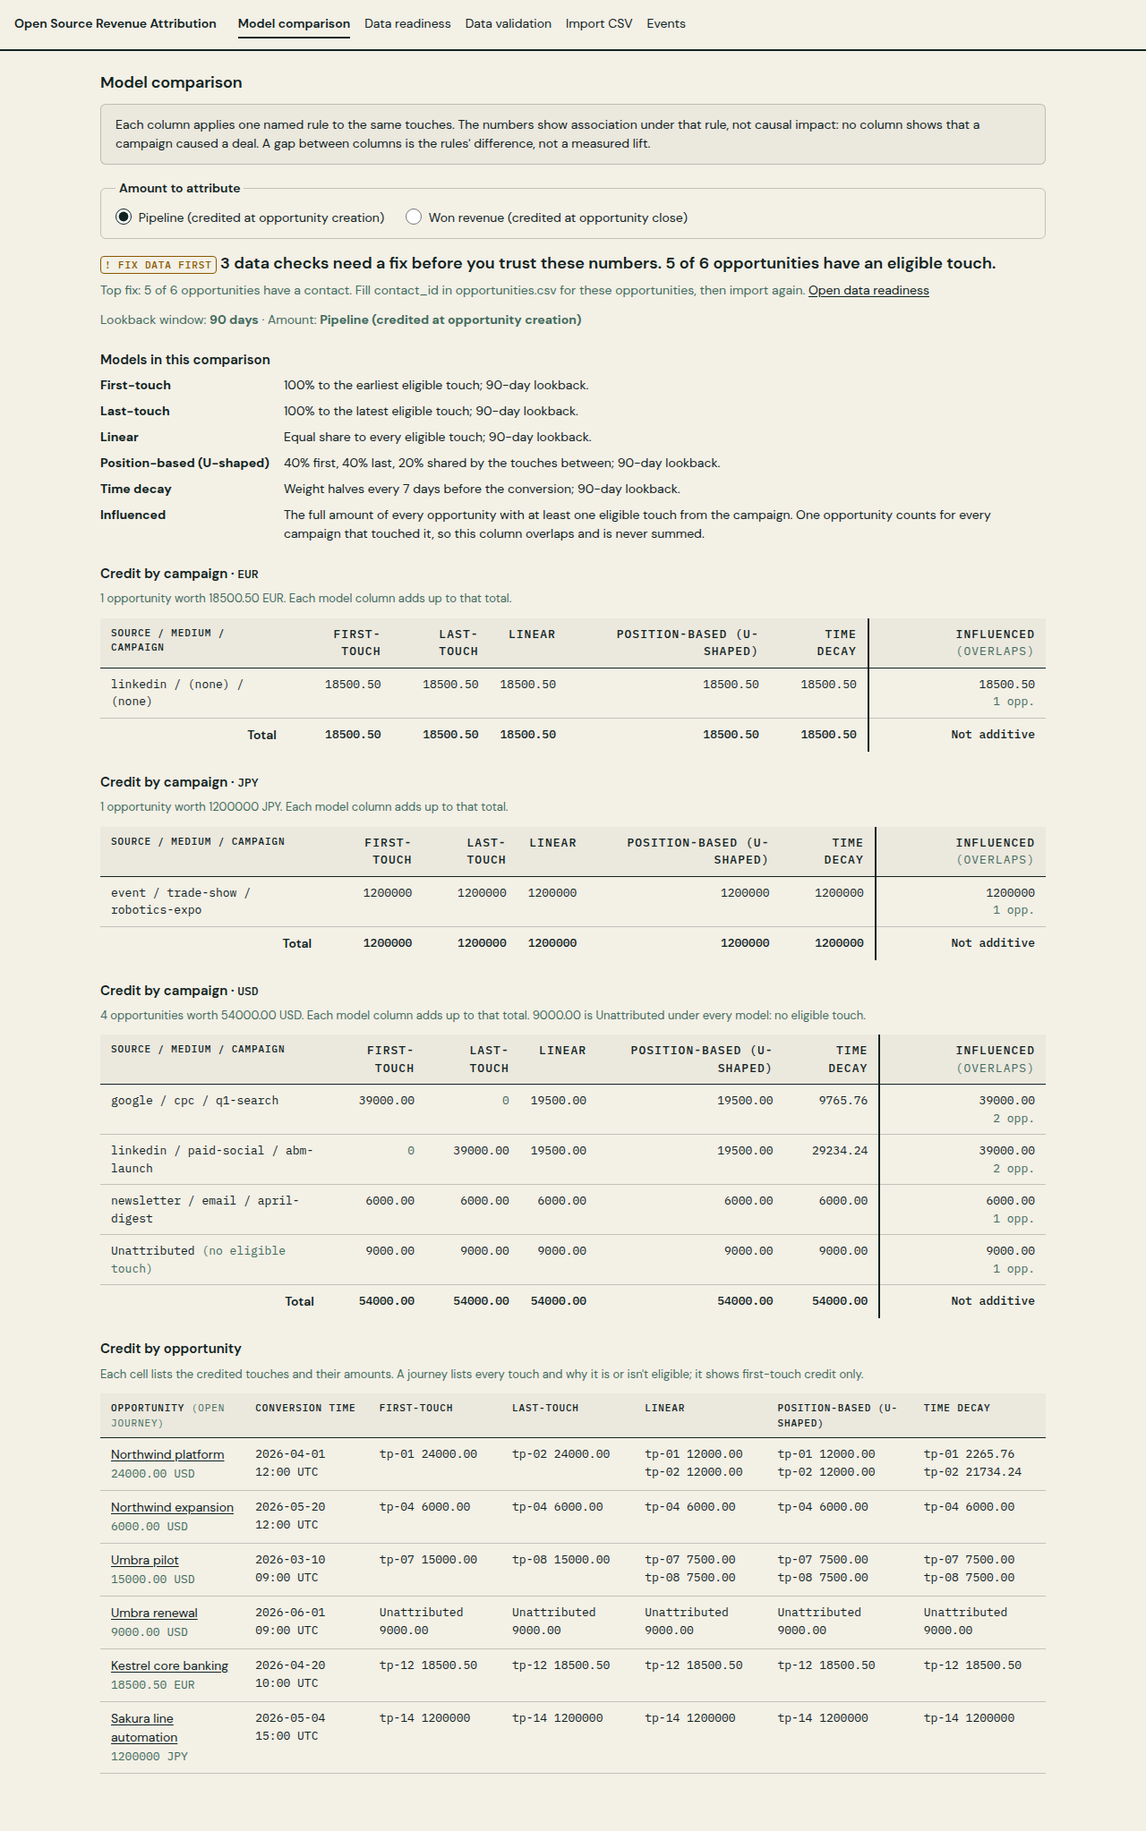
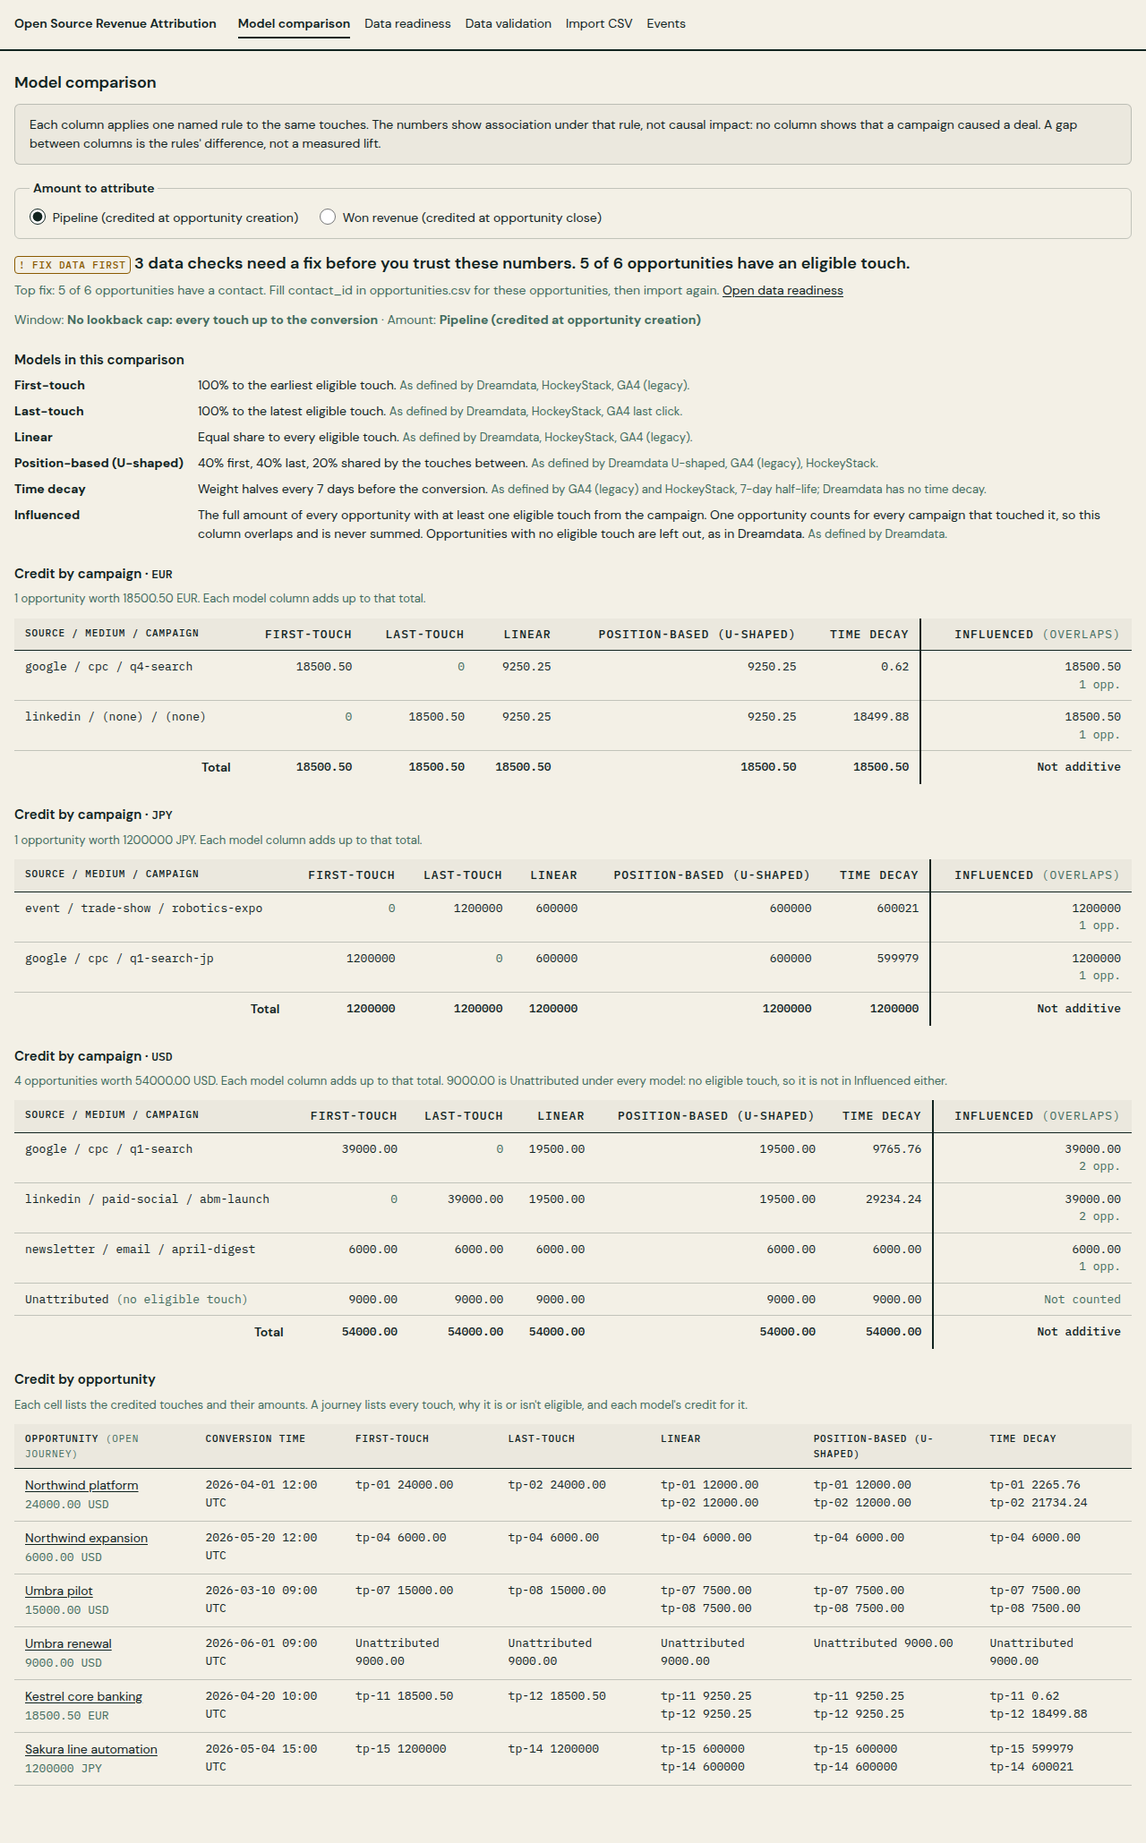
docs: record M4 decisions, PRD scope update, planned lead_created_at

diff --git a/docs/decisions.md b/docs/decisions.md
@@ -2,51 +2,53 @@
 
 Product and data-meaning decisions, newest first. Each links the issue where it was made.
 
-## 2026-10-29 — M4 models, influence and readiness (proposed, needs Christopher)
+## 2026-10-29 — M4 models, lookback, influence and readiness
 
-Proposed on branch `claude/m4-models`, not yet reviewed. Research and sources:
-[docs/research/m4-models.md](research/m4-models.md).
+Decided by Claude (the coordinating session), under Christopher's standing rule for this
+project: adopt the industry standard, or argue for a deviation from the docs. Research and
+sources: [docs/research/m4-models.md](research/m4-models.md). Branch `claude/m4-models`.
 
-**Adopted from the standard:**
-- **Models:** first-touch, last-touch and linear as Dreamdata defines them. Position-based
-  (U-shaped) is 40/20/40, as in Dreamdata, GA4 (legacy) and HockeyStack. Time decay has a
-  7-day half-life measured back from the conversion, as in GA4 (legacy) and HockeyStack.
-- **Influenced:** a campaign counts the full amount of every opportunity it touched, so
-  totals overlap (Dreamdata's definition). It is never totalled in the UI.
-- **Direct and `(none)` touches** get credit like any other, as in Dreamdata. GA4 excludes
-  direct; we don't.
-- **Rounding:** every model splits at the currency's minor unit. Leftover minor units go to
-  the largest remainders, ties to the earlier touch (PRD section 6: deterministic,
-  reconciling).
+1. **No lookback cap by default (matches Dreamdata).** Dreamdata counts "from the first
+   interaction up to the stage you selected". A day-based window is now an optional model
+   parameter (`ATTRIBUTION_LOOKBACK_DAYS`, for example 90, GA4's default). Every page names
+   the window in use. This replaces the PRD's 90-day demo default.
+   **Numbers that moved on the demo** (hand-derived in `sample_data/demo/README.md`):
+   - Pipeline first-touch: opp-105 moves to tp-11 (google / cpc / q4-search) and opp-106 to
+     tp-15 (google / cpc / q1-search-jp).
+   - Won first-touch: opp-101 moves to tp-01 (q1-search) and opp-105 to tp-11.
+   - Every multi-touch model for opp-105 (both metrics), opp-106 pipeline and opp-101 won.
+   - Two fewer `TOUCHPOINT_OUTSIDE_LOOKBACK` warnings (tp-11, tp-15) on the live import.
+   - The 90-day results stay in each expected file under `lookback_90`.
+2. **W-shaped deferred.** Its third anchor is "the touch containing the conversion", which
+   needs a lead milestone. `lead_created_at` is listed in the contract as planned, not
+   implemented.
+3. **Time decay kept.** Its 7-day half-life is measured back from the conversion, per GA4
+   (legacy) and HockeyStack. The UI labels those sources and says that Dreamdata has no
+   time-decay model. Weights are normalised so credits reconcile.
+4. **Position-based with one or two touches: 100%, or 50/50.** No vendor documents these
+   cases (checked Dreamdata, GA4, HockeyStack and HubSpot). They are the only splits that
+   keep the total and treat first and last alike.
+5. **Influenced matches Dreamdata.** A campaign counts the full amount of every opportunity it
+   touched, so totals overlap and are never summed. Opportunities with no eligible touch are
+   left out ("attributable deals" only). The readiness page lists them instead.
+6. **PRD updated.** Position-based is in scope for M4 (PRD section 9, dated note).
+7. **Journeys show every model's credit per touch**, not first-touch only.
 
-**Deviations, each needing a `Decision:`:**
-1. **Lookback stays 90 days.** Dreamdata has no fixed window: it counts from the first
-   interaction up to the stage date. GA4 defaults to 90 days. Long journeys will show less
-   credit (more Unattributed) here than in Dreamdata. Alternative: an "unbounded" option.
-2. **W-shaped is not built.** Its third 30% anchor is "the touch containing the conversion",
-   which needs a lead or conversion milestone we don't store. Dreamdata doesn't define which
-   milestone it is. Options: contact creation time, a `track` milestone event such as
-   `Demo Requested`, or wait for stage history.
-3. **Time decay is included although Dreamdata has none.** The M4 brief asked for it, and GA4
-   (legacy) and HockeyStack define it. Weights are normalised so credits reconcile.
-   HockeyStack notes its version doesn't add up.
-4. **Position-based with one or two touches** gives 100%, or 50/50. No source documents
-   these cases; this is the common reading.
-5. **Influence keeps an Unattributed row** for opportunities with no eligible touch.
-   Dreamdata leaves those deals out ("attributable deals" only). We keep them because the
-   PRD says missing attribution must stay visible.
-6. **PRD section 9 lists position-based as out of scope** for the first release. The M4 brief
-   asks for it. The PRD needs updating if this stands.
-7. **Data-driven is skipped.** Dreamdata's version falls back toward linear below 50
-   journeys, and a removal-effect credit can't be checked by hand per opportunity.
+**Also adopted from the standard:**
+- First-touch, last-touch, linear and U-shaped 40/20/40, as in Dreamdata.
+- Direct and `(none)` touches get credit, as in Dreamdata (GA4 excludes direct).
+- Data-driven is skipped: Dreamdata's version falls back toward linear below 50 journeys, and
+  its credit can't be checked by hand.
+- Rounding happens at the currency's minor unit; leftover units go to the largest
+  remainders, ties to the earlier touch.
 
 **Data readiness:** seven counted checks with denominators. Each check has a fix and a way to
-verify it, and shows "Not checked" with the reason when its data is missing. The checks map to
-Dreamdata's No tracking, Unknown and attributable-deals labels (research §4). Implemented in
-`reports/readiness.py`.
+verify it, and shows "Not checked" with the reason when its data is missing. They map to
+Dreamdata's No tracking, Unknown and attributable-deals labels.
 
-Implemented in `attribution/models.py`, `attribution/influence.py` and
-`attribution/types.allocate`. Fixture: `sample_data/demo/expected/models.json`.
+Code: `attribution/models.py`, `attribution/influence.py`, `attribution/types.py`
+(`allocate`, `describe_window`), `reports/readiness.py`. Fixtures:
+`sample_data/demo/expected/models.json` and `first_touch.json`.
 
 ## 2026-10-29 — One touchpoint per session (replaces assumption 17's visit rule)
 

diff --git a/README.md b/README.md
@@ -11,7 +11,8 @@ A self-hostable Django app for marketers, founders and agency analysts at small 
 who need a revenue report they can explain. It collects RudderStack events, imports accounts,
 contacts, opportunities and touchpoints from CSV, refuses data that breaks a
 [documented contract](docs/contract.md) with a reason code, and credits each opportunity under
-five named models and a lookback window, side by side.
+five named models, side by side. By default every touch up to the conversion counts, as in
+Dreamdata; a lookback window in days is optional.
 
 Attribution here is a reporting model. It shows how a stated rule assigns credit; it does not
 estimate causal impact or incrementality.
@@ -42,7 +43,7 @@ Open http://127.0.0.1:8000/ for the model comparison on the synthetic demo data:
 campaign under five models, each named with its rule, and the influenced amount beside them.
 Switch between **Pipeline** and **Won revenue** to swap the tables in place. Click an
 opportunity to open its journey: every touch of its contact, why each one is or isn't eligible,
-and its first-touch credit.
+and each model's credit for it.
 http://127.0.0.1:8000/readiness/ lists what to fix in the data before you trust the numbers.
 On the demo data, 3 checks need a fix. Each one comes with its fix and a way to verify it.
 http://127.0.0.1:8000/validation/ shows what the import refused and why: the demo data has 10
@@ -90,13 +91,13 @@ The Postgres path has not been run end to end yet; tests and the steps above use
 | Validation report | `/validation/`: verdict, counts per file, every refused row and warning with its code and how to fix it | Works |
 | Event collection | `POST /v1/batch`, `/v1/page`, `/v1/track`, `/v1/identify` with a per-workspace write key. Validated, deduplicated on `messageId`, raw payload and outcome stored. | Works |
 | Events to touchpoints | An identify links the browser's earlier anonymous page views to the contact. Each session (a browser's events less than 30 minutes apart, as in Dreamdata and GA4) is one touchpoint, credited to its first page view's UTMs or referrer; later page views in the session are not counted again. Browser clock skew corrected with receive time minus `sentAt`. | Works |
-| Opportunity journey | `/opportunities/<id>/journey/`: each touch of the opportunity's contact in a fixed order, its lookback status, the session rule that admitted it with the session's page views nested under it, and its first-touch credit | Works |
-| Model comparison | `/`: first-touch, last-touch, linear, position-based (U-shaped, 40/20/40) and time decay (7-day half-life) side by side per campaign and per opportunity. Pipeline (at creation) and won revenue (at close), 90-day lookback, totals per currency. Every model column sums to the amount, with leftover cents assigned deterministically. | Works |
-| Attributed vs influenced | An Influenced column beside the models: the full amount of every opportunity a campaign touched, labelled as overlapping and never totalled (Dreamdata's definition) | Works |
+| Opportunity journey | `/opportunities/<id>/journey/`: each touch of the opportunity's contact in a fixed order, its lookback status, the session rule that admitted it with the session's page views nested under it, and the credit each model gives it | Works |
+| Model comparison | `/`: first-touch, last-touch, linear, position-based (U-shaped, 40/20/40) and time decay (7-day half-life) side by side per campaign and per opportunity. Pipeline (at creation) and won revenue (at close), no lookback cap by default (optional `ATTRIBUTION_LOOKBACK_DAYS`), totals per currency. Every model column sums to the amount, with leftover cents assigned deterministically. | Works |
+| Attributed vs influenced | An Influenced column beside the models: the full amount of every opportunity a campaign touched, labelled as overlapping and never totalled. Opportunities with no eligible touch are left out and listed on the readiness page (Dreamdata's definition). | Works |
 | Data readiness | `/readiness/`: 7 checks with denominators (contacts, tracked touches, touches in the window, campaign fields, refused import rows, refused events, unlinked page views). Each failing check comes with its fix, a way to verify it, and the affected records. Checks without data show "Not checked". | Works |
 | Demo fixtures | Synthetic CSVs and events with hand-calculated expected results ([sample_data/](sample_data/)) | Works |
 | Combined account journey, stage history | | Planned |
-| W-shaped model (needs a lead milestone), journeys under every model | | Planned |
+| W-shaped model (needs a planned `lead_created_at` lead milestone in the contract) | | Planned |
 | Self-hosting guide, release | | Planned (M5) |
 
 ## Known limits
@@ -104,10 +105,8 @@ The Postgres path has not been run end to end yet; tests and the steps above use
 - **Rule-based models only.** No data-driven model: it needs volume and can't be checked by
   hand. No W-shaped model yet. Model definitions and their sources:
   [docs/research/m4-models.md](docs/research/m4-models.md).
-- **The window is fixed at 90 days** (GA4's default). Dreamdata counts from the first
-  interaction instead, so long journeys show more Unattributed here.
-- **Journeys show first-touch credit.** The other models' per-touch credit is in the
-  comparison's "Credit by opportunity" table.
+- **Time decay is not a Dreamdata model.** It follows GA4's legacy model and HockeyStack
+  (7-day half-life), and the page says so.
 - **No login.** Every page, including CSV upload, is open to anyone who can reach the server.
   Run it locally or behind your own access control.
 - **Same-origin collection only.** The endpoint sends no CORS headers, so a site on another

diff --git a/docs/contract.md b/docs/contract.md
@@ -61,6 +61,11 @@ Validated in this order (parents first): `accounts.csv`, `contacts.csv`, `opport
 | `created_at` | yes | timestamp | Pipeline conversion time. |
 | `won_at` | if won | timestamp | Required when `stage` is `won` (`WON_AT_REQUIRED`), must be blank when `open` (`WON_AT_NOT_ALLOWED`), not before `created_at` (`WON_BEFORE_CREATED`). Won-revenue conversion time. |
 
+**Planned, not implemented:** a `lead_created_at` timestamp (on `contacts.csv` or from an
+identify/track milestone). It is the third anchor W-shaped needs ("the touch containing the
+conversion", Dreamdata). Today the column is not read; an unknown column is warned and ignored
+(assumption 11). See [decisions](decisions.md), 2026-10-29 M4.
+
 ### touchpoints.csv
 
 A touchpoint is a marketing touch (typically a landing-page visit) by a known contact.
@@ -274,7 +279,7 @@ With `--strict` any refusal refuses the whole import and nothing is loaded.
 | `UNKNOWN_COLUMN` | A column is not in the contract and was ignored. |
 | `DUPLICATE_ROW` | An exact repeat of an earlier row or event; counted once. |
 | `MISSING_CAMPAIGN_FIELDS` | `utm_source`, `utm_medium` or `utm_campaign` is blank; shown as `(none)`. |
-| `TOUCHPOINT_OUTSIDE_LOOKBACK` | The touchpoint is outside every lookback window (pipeline and won) of its contact's opportunities, or the contact has no opportunities, so no model can credit it. |
+| `TOUCHPOINT_OUTSIDE_LOOKBACK` | The touchpoint is outside every lookback window (pipeline and won) of its contact's opportunities, or the contact has no opportunities, so no model can credit it. With no lookback cap (the default), that means it happened after every conversion of the contact. |
 | `OPPORTUNITY_WITHOUT_CONTACT` | No contact, so no touchpoints: the full amount is Unattributed. |
 | `ZERO_AMOUNT` | The opportunity amount is 0. |
 | `UNKNOWN_EVENT_NAME` | A track event name is not a funnel milestone. |
@@ -285,8 +290,10 @@ With `--strict` any refusal refuses the whole import and nothing is loaded.
 - One conversion per opportunity per metric: **pipeline** at `created_at`, **won revenue** at
   `won_at` for won opportunities only ([decisions](decisions.md)).
 - Eligible touchpoints: the opportunity contact's touchpoints with
-  `conversion − lookback ≤ occurred_at ≤ conversion`, both ends inclusive, compared in UTC.
-  Lookback defaults to 90 days (`ATTRIBUTION_LOOKBACK_DAYS`).
+  `occurred_at ≤ conversion`, compared in UTC. **No lookback cap by default**: the journey runs
+  from the first interaction to the conversion, as in Dreamdata. An optional cap
+  (`ATTRIBUTION_LOOKBACK_DAYS`, for example 90, GA4's default) adds
+  `conversion − lookback ≤ occurred_at`, inclusive, and every page names it.
 - Same-instant touchpoints are ordered by touchpoint ID.
 - No eligible touchpoints → the whole amount goes to `Unattributed`.
 - **Models (M4):** first-touch, last-touch, linear, position-based (U-shaped, 40/20/40) and
@@ -297,6 +304,8 @@ With `--strict` any refusal refuses the whole import and nothing is loaded.
   to the amount.
 - **Influenced (M4):** a campaign's influenced amount is the full amount of each opportunity
   with at least one eligible touch from it. It overlaps across campaigns and is never summed.
+  Opportunities with no eligible touch are left out of influence (Dreamdata's "attributable
+  deals"); the data readiness page lists them.
 - Sources and deviations: [research](research/m4-models.md), [decisions](decisions.md).
 
 ## Assumptions
@@ -333,7 +342,7 @@ Choices the PRD does not make, taken conservatively. Each is a candidate for
     refuses everything on any error.
 13. **Track names outside the four milestones are accepted** with a warning, not refused.
 14. **`TOUCHPOINT_OUTSIDE_LOOKBACK` checks both the pipeline and the won window**, using the
-    configured lookback.
+    configured lookback (none by default since M4).
 15. **Supported currencies** are the 20 listed above (all with 0 or 2 minor-unit digits, to fit
     the current amount column).
 

diff --git a/docs/research/m4-models.md b/docs/research/m4-models.md
@@ -62,9 +62,9 @@ Source: [Attribution models](https://docs.hockeystack.com/documentation/reports/
 | First-touch | 100% to the earliest eligible touch | Dreamdata, HockeyStack, GA4 legacy |
 | Last-touch | 100% to the latest eligible touch | Dreamdata, HockeyStack, GA4 last click (except direct handling) |
 | Linear | equal split | Dreamdata, HockeyStack |
-| Position-based (U-shaped) | 40 / 20 / 40; one touch 100%; two touches 50 / 50 | Dreamdata U-shaped, GA4 legacy, HockeyStack (one- and two-touch cases are our reading) |
+| Position-based (U-shaped) | 40 / 20 / 40; one touch 100%; two touches 50 / 50 | Dreamdata U-shaped, GA4 legacy, HockeyStack. No vendor documents the one- and two-touch cases (HubSpot checked too); these are the only splits that keep the total and treat first and last alike. |
 | Time decay | weight 2^(−age / 7 days), age measured back from the conversion, normalised so credits sum to the amount | GA4 legacy, HockeyStack; Dreamdata has none |
-| W-shaped | **not built**: we do not store the milestone it needs | see decisions |
+| W-shaped | **deferred**: needs a lead milestone (`lead_created_at`, planned) | see decisions |
 | Data-driven | **not built** | see below |
 
 Data-driven is skipped on purpose. Dreamdata's own version falls back toward linear below 50
@@ -83,9 +83,8 @@ promise is that every number traces to source records and a named rule.
   ([attribution settings](https://support.google.com/analytics/answer/16291704)).
 - **HockeyStack:** time-based (days or months before the goal), goal-based, or none, per report
   or as a workspace default ([attribution lookback](https://docs.hockeystack.com/marketing-intelligence/reports/attribution-lookback)).
-- **Ours:** a 90-day inclusive window measured back from the conversion (PRD section 6), the
-  same for every model and for influence. It is GA4's default. Dreamdata's unbounded journey is
-  a deviation (decisions).
+- **Ours (decided):** no cap by default, as in Dreamdata. An optional window in days (90 is
+  GA4's default) applies to every model and to influence, and every page names it.
 
 ## 3. Attributed vs influenced
 
@@ -104,8 +103,8 @@ Source: [Revenue attribution](https://docs.dreamdata.io/article/8v75km9zu3-reven
   eligible touch from it. "Eligible" uses the same window as the models.
 - The column is labelled as overlapping and is never totalled.
 - Attributed columns reconcile to the amount per currency.
-- Opportunities with no eligible touch stay visible as an Unattributed row, where Dreamdata
-  would drop them as not attributable (decisions).
+- Opportunities with no eligible touch are left out of influence, as in Dreamdata. The data
+  readiness page lists them.
 
 ## 4. Data readiness
 
@@ -133,7 +132,7 @@ this):
 |---|---|
 | Opportunities have a contact | contactless deals (Dreamdata would fall back to the company; we don't, decision #3) |
 | Contacts have tracked touches | No Tracking |
-| Touches fall inside the lookback window | attributable deals |
+| Touches happen before the conversion (and inside the window, if one is set) | attributable deals |
 | Touches carry source, medium and campaign | Unknown / direct |
 | The last import loaded every row | CRM sync health |
 | Collected events were accepted | tracking status |

diff --git a/docs/prd.md b/docs/prd.md
@@ -109,7 +109,7 @@ These defaults make the first demo testable. Confirm them in the decision log be
 
 - Attribution is calculated per opportunity, with won revenue based on the opportunity's recorded value at the won stage.
 - Eligible touchpoints are valid marketing touchpoints connected to that opportunity's contact and occurring no later than the conversion timestamp.
-- Use a configurable lookback window, with **90 days as the initial demo default**. The window is measured backwards from the conversion timestamp.
+- ~~Use a configurable lookback window, with 90 days as the initial demo default.~~ **Updated 2026-10-29 (M4):** no lookback cap by default, as in Dreamdata (first interaction to conversion); an optional window in days is measured backwards from the conversion timestamp and shown wherever it is used. See `docs/decisions.md`.
 - First-touch and last-touch use the earliest/latest eligible touchpoint. Linear splits the opportunity value evenly across eligible touchpoints.
 - If there are no eligible touchpoints, assign the full amount to `Unattributed`.
 - Round display values to the currency's minor unit; calculate with adequate precision and assign any rounding remainder deterministically so totals reconcile.
@@ -144,7 +144,9 @@ Define the physical schema and constraints in versioned migrations after the eve
 
 - Reproducing all Dreamdata features or supporting enterprise-scale data volumes.
 - Native CRM sync, ad-spend connectors, reverse ETL, or automated ad-platform actions.
-- Machine-learning, position-based, or claimed causal/incrementality attribution.
+- Machine-learning (data-driven) or claimed causal/incrementality attribution.
+- *Updated 2026-10-29 (M4):* position-based (U-shaped) attribution moved into scope and ships
+  in M4, with time decay. W-shaped waits for a lead milestone. See `docs/decisions.md`.
 - Automated account-level identity resolution or probabilistic identity stitching.
 - Production multi-tenant SaaS guarantees, billing, and hosted operations.
 - Broad customization of every event, report, and workflow before the default funnel works end to end.
